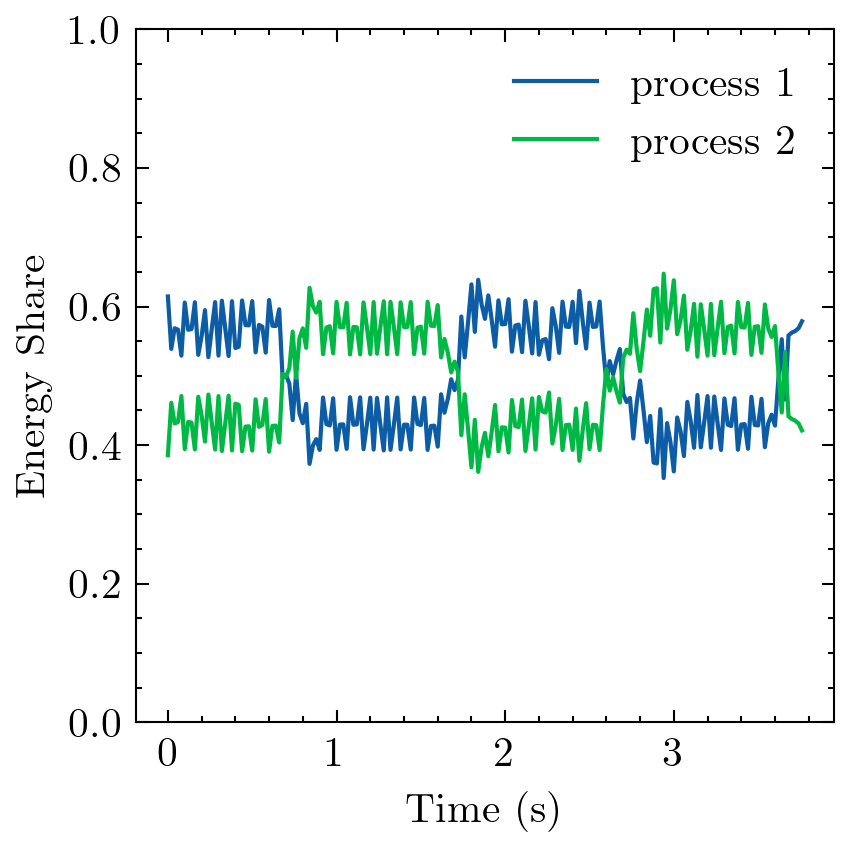
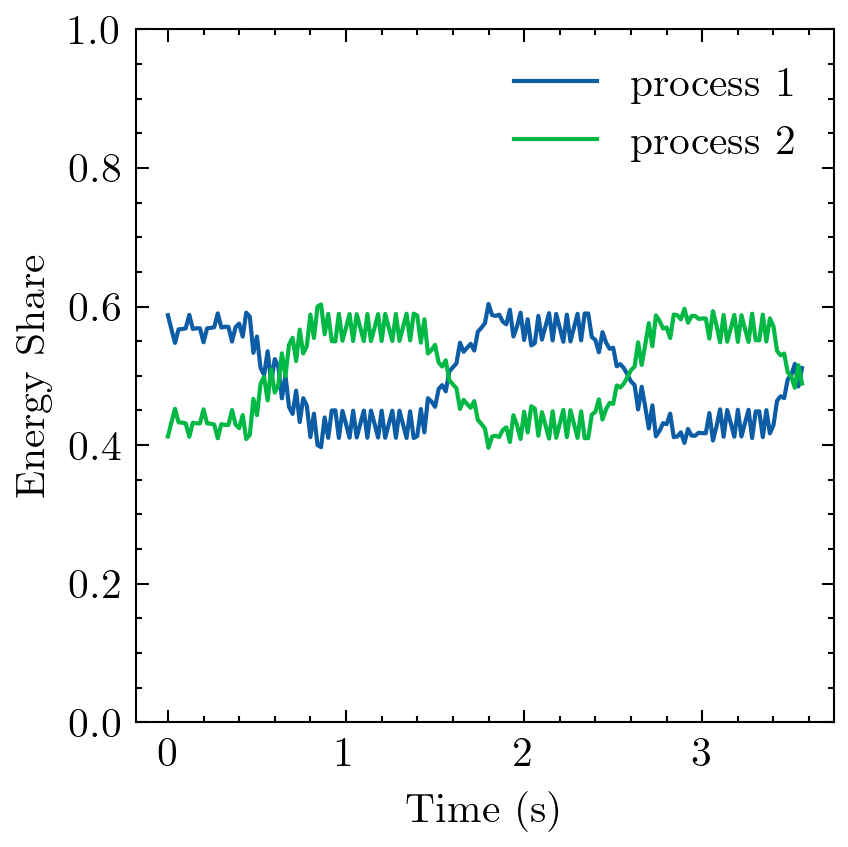
dynamic load graph updates

diff --git a/efs_test/plot_graph.py b/efs_test/plot_graph.py
@@ -93,21 +93,19 @@ def plot_timeshare_graph(sched_type, interval):
         #     float(line.split(",")[5]) / float(line.split(",")[1]) for line in lines
         # ]
 
-        lines_with_shifted_by_ten = list(zip(lines, lines[10:]))
+        lines_with_shifted_by_ten = list(zip(lines, lines[20:]))
 
         timesteps = [
             interval * i / 1000000 for i in range(0, len(lines_with_shifted_by_ten))
         ]
 
         proc1_timeshare = [
-            (float(line.split(",")[3])
-            - float(line10.split(",")[3]))
+            (float(line.split(",")[3]) - float(line10.split(",")[3]))
             / (float(line.split(",")[1]) - float(line10.split(",")[1]))
             for (line, line10) in lines_with_shifted_by_ten
         ]
         proc2_timeshare = [
-            (float(line.split(",")[5])
-            - float(line10.split(",")[5]))
+            (float(line.split(",")[5]) - float(line10.split(",")[5]))
             / (float(line.split(",")[1]) - float(line10.split(",")[1]))
             for (line, line10) in lines_with_shifted_by_ten
         ]
@@ -128,21 +126,19 @@ def plot_energy_share_graph(sched_type, interval):
     with open(file, "r") as f:
         lines = f.readlines()
 
-        lines_with_shifted_by_ten = list(zip(lines, lines[10:]))
+        lines_with_shifted_by_ten = list(zip(lines, lines[20:]))
 
         timesteps = [
             interval * i / 1000000 for i in range(0, len(lines_with_shifted_by_ten))
         ]
 
         proc1_energy_share = [
-            (float(line.split(",")[2])
-            - float(line10.split(",")[2]))
+            (float(line.split(",")[2]) - float(line10.split(",")[2]))
             / (float(line.split(",")[0]) - float(line10.split(",")[0]))
             for (line, line10) in lines_with_shifted_by_ten
         ]
         proc2_energy_share = [
-            (float(line.split(",")[4])
-            - float(line10.split(",")[4]))
+            (float(line.split(",")[4]) - float(line10.split(",")[4]))
             / (float(line.split(",")[0]) - float(line10.split(",")[0]))
             for (line, line10) in lines_with_shifted_by_ten
         ]
